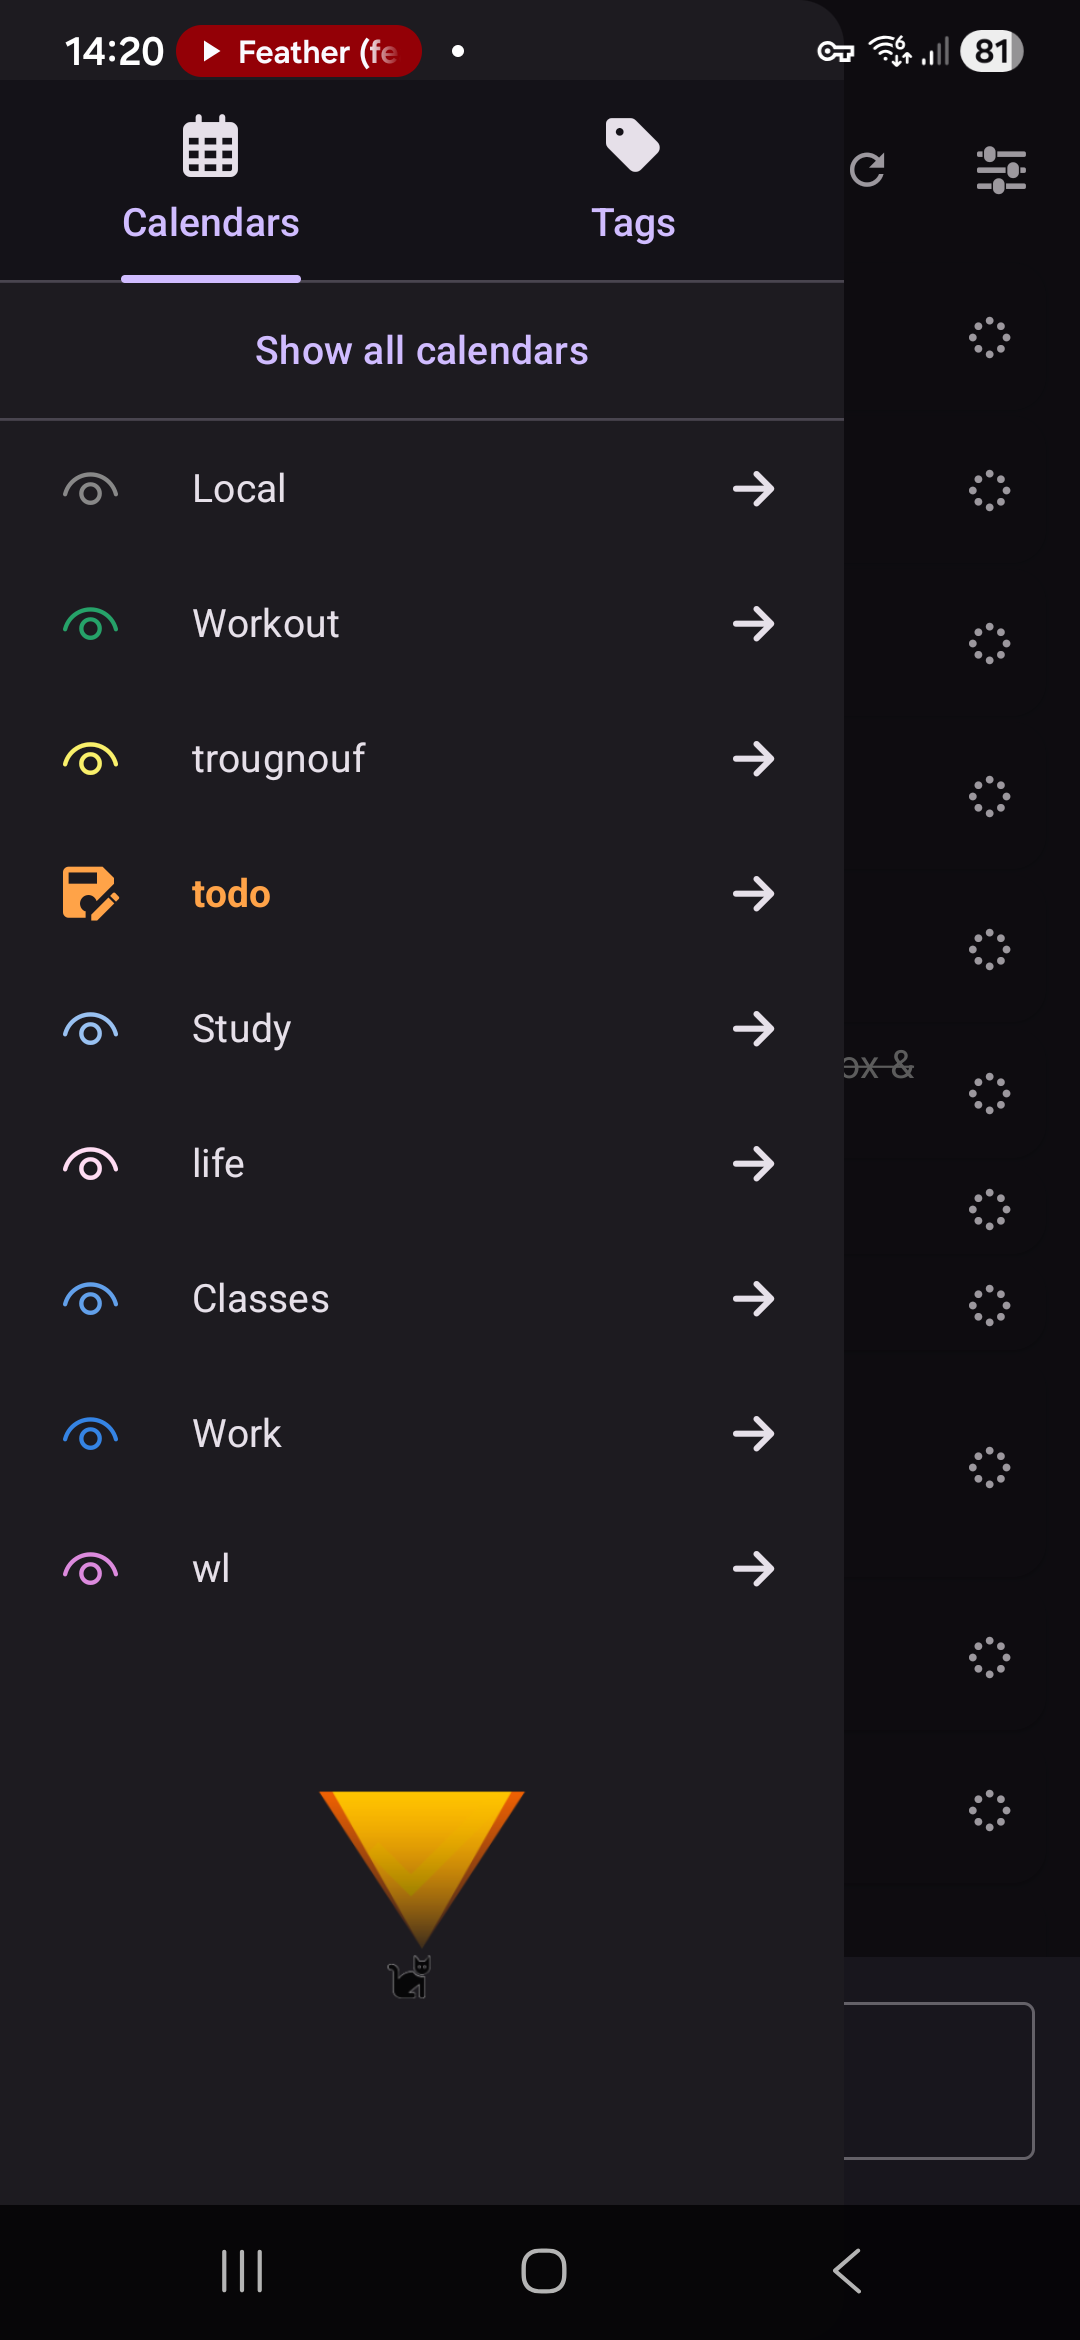
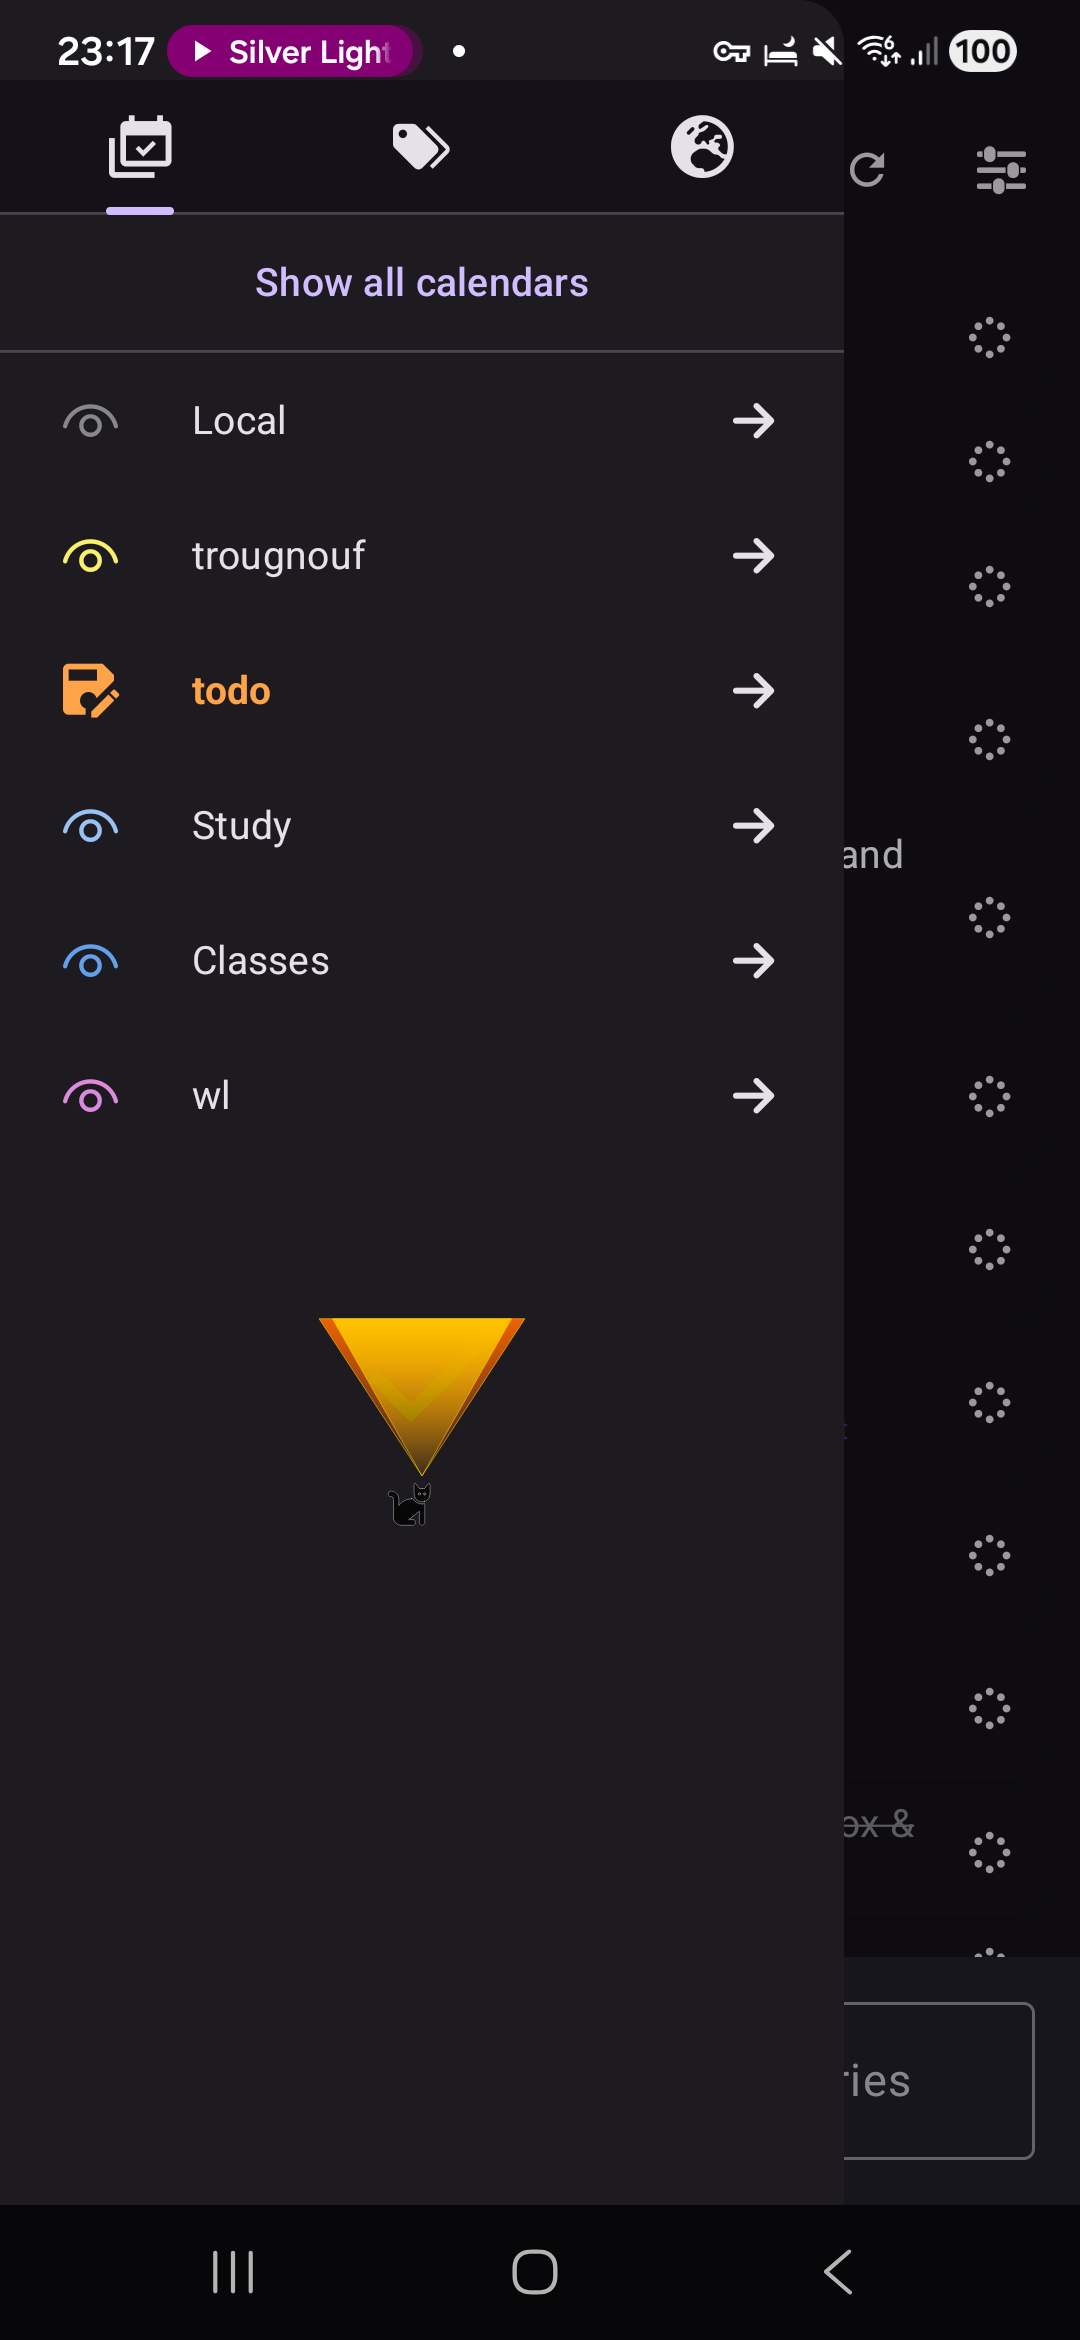
doc: update screenshots to upcoming v0.3.14

diff --git a/README.md b/README.md
@@ -56,7 +56,7 @@ You can use it comfortably from the command line (TUI), on your desktop (GUI), o
 
 | Desktop (GUI & TUI) | Mobile (Android) |
 | :---: | :---: |
-| ![Cfait GUI Screenshot](https://commons.wikimedia.org/wiki/Special:FilePath/Cfait_task_manager_v0.3.13_screenshot_(GUI).png)<br>The Graphical Interface in v0.3.13 <small>([history](https://commons.wikimedia.org/wiki/Category:Screenshots_of_Cfait_(GUI)))</small><br><br>![Cfait TUI Screenshot](https://commons.wikimedia.org/wiki/Special:FilePath/Cfait_task_manager_v0.3.3_screenshot_(TUI).png)<br>The Terminal Interface in v0.3.3 <small>([history](https://commons.wikimedia.org/wiki/Category:Screenshots_of_Cfait_(TUI)))</small> | ![Cfait Android Screenshot](https://commons.wikimedia.org/wiki/Special:FilePath/Cfait_task_manager_v0.3.3_screenshot_(Android).png)<br>The Android client in v0.3.3 <small>([history](https://commons.wikimedia.org/wiki/Category:Screenshots_of_Cfait_(Android)))</small> |
+| ![Cfait GUI Screenshot](https://commons.wikimedia.org/wiki/Special:FilePath/Cfait_task_manager_v0.3.14_screenshot_(GUI).png)<br>The Graphical Interface in v0.3.14 <small>([history](https://commons.wikimedia.org/wiki/Category:Screenshots_of_Cfait_(GUI)))</small><br><br>![Cfait TUI Screenshot](https://commons.wikimedia.org/wiki/Special:FilePath/Cfait_task_manager_v0.3.14_screenshot_(TUI).png)<br>The Terminal Interface in v0.3.14 <small>([history](https://commons.wikimedia.org/wiki/Category:Screenshots_of_Cfait_(TUI)))</small> | ![Cfait Android Screenshot](https://commons.wikimedia.org/wiki/Special:FilePath/Cfait_task_manager_v0.3.14_screenshot_(Android).png)<br>The Android client in v0.3.14 <small>([history and more](https://commons.wikimedia.org/wiki/Category:Screenshots_of_Cfait_(Android)))</small> |
 
 <a name="installation"></a>
 ## 🚀 Installation
